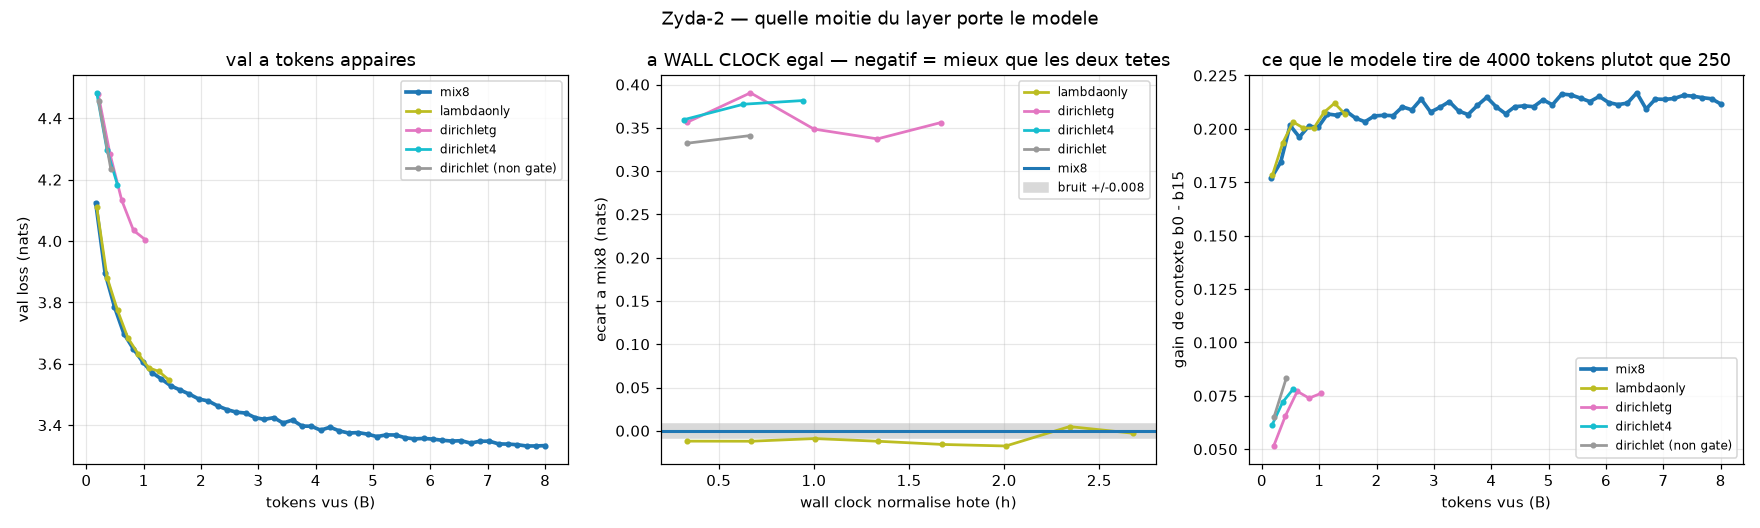
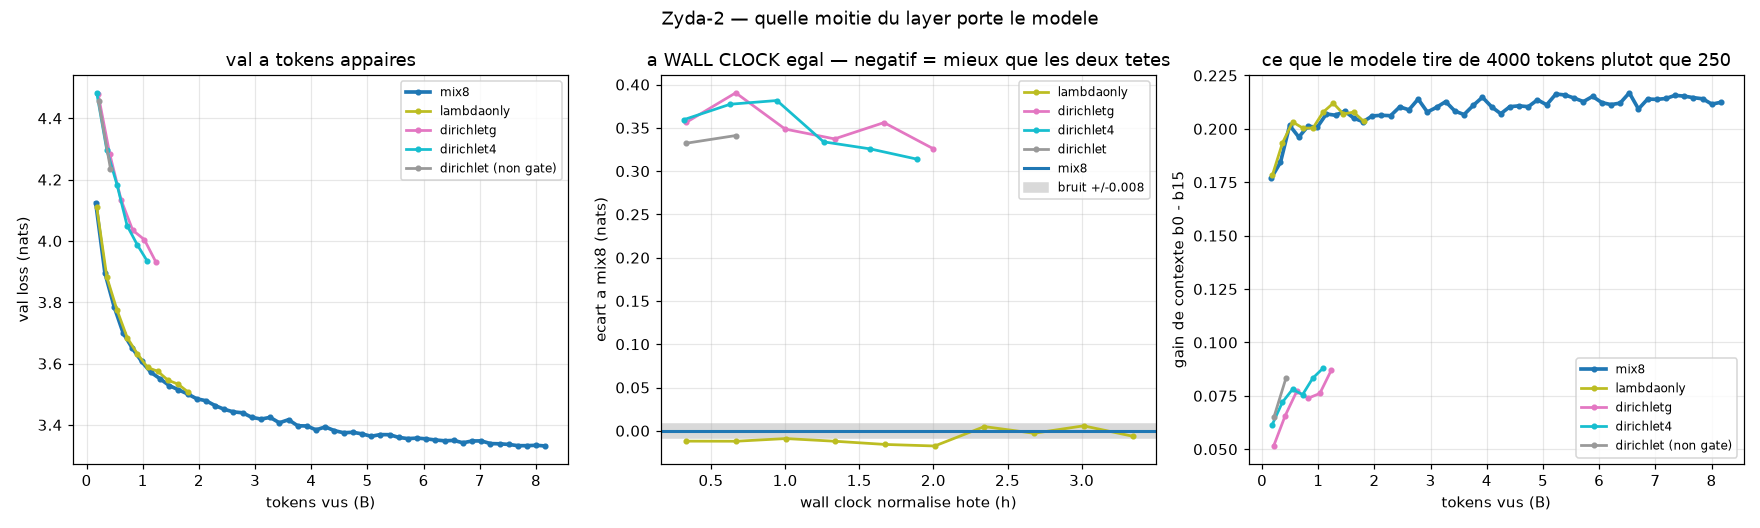
record which host each arm ran on: slot numbers do not survive a teardown
Destroying slots 0 and 3 RENUMBERED the survivors -- the old slot 1 is
now slot 0 -- and two of the four hosts no longer exist to be queried at
all. Both host_factors() implementations read calib_tok_s out of the
live pool by slot number, so every figure drawn after the teardown would
have normalised the historical arms against the wrong cards, and the
reference host (139362, the original slot 0) is one of the destroyed
ones, which would have shifted every factor by 0.5% on top.

Nothing would have failed. The curves would simply have been wrong.

vast.common now holds ARM_HOST (arm -> instance id) and HOST_RATE
(instance id -> calibrated tok/s) with REF_RATE frozen at 139362, and
both campaign_plots and vast.curves read it. Checked against the numbers
already reported: dv256 x1.0000, gdn x1.0043, mix8 x0.9948, mixanch
x0.9444, and the dv256-gdn median gap comes back at +0.0982, the same
figure as before the teardown. vast.curves no longer needs --map.

Slots 0 and 3 destroyed after loading every checkpoint that lived on
them -- dv256, mix8wide, dirichletg, dirichlet4, mixanch -- rather than
sizing the files. Two instances left at $1.235/h, no volumes, 21.0h of
runway against the 16.4h lambdaonly still needs.

diff --git a/campaign_plots.py b/campaign_plots.py
@@ -7,10 +7,10 @@ are a smudge in the first inch. The three figures here are the ones that scale
 does not show: the early hours against their own control, the router occupancy
 that motivated mix8, and the frequency grid mixanch is measuring for us.
 
-Host factors come from vast/runtime/instances.json (calib_tok_s per slot) via
-the same normalisation vast.curves applies: an arm on a 5.6% slower card gets
-5.6% fewer tokens per hour, which at the fitted slope is worth more than most
-of the effects being measured.
+Host factors come from vast.common's recorded table, not from the live pool:
+an arm on a 5.6% slower card gets 5.6% fewer tokens per hour, which at the
+fitted slope is worth more than most of the effects measured here, and the
+hosts two of these arms ran on no longer exist to be asked.
 """
 from __future__ import annotations
 
@@ -23,6 +23,8 @@ import numpy as np
 import matplotlib
 matplotlib.use("Agg")
 import matplotlib.pyplot as plt
+
+from vast.common import arm_factors
 
 ROOT = Path(__file__).resolve().parent
 LOG = ROOT / "runs" / "zyda.jsonl"
@@ -42,10 +44,13 @@ R_OF = {"z_mix4": 4, "z_mix8": 8, "z_mix8wide": 8, "z_mix8m32": 8, "z_mixanch": 
 
 
 def host_factors() -> dict[str, float]:
-    pool = {p["slot"]: p for p in json.loads((ROOT / "vast/runtime/instances.json").read_text())}
-    rates = {s: p.get("calib_tok_s") for s, p in pool.items()}
-    ref = rates.get(0) or next(v for v in rates.values() if v)
-    return {a: (rates.get(s) or ref) / ref for a, s in SLOT.items()}
+    """arm -> multiply its elapsed seconds by this to get reference-host seconds.
+
+    The table lives in vast.common because vast.curves needs the same one:
+    slot numbers shift on teardown and destroyed hosts cannot be queried.
+    """
+    return arm_factors(SLOT)
+
 
 
 def load() -> dict[str, list[dict]]:

diff --git a/vast/common.py b/vast/common.py
@@ -57,6 +57,34 @@ def vast(*args: str) -> object:
     return json.loads(result.stdout) if result.stdout.strip() else {}
 
 
+# Calibrated tok/s of the HOST each arm ran on, recorded rather than looked up.
+# Slot numbers are NOT stable: tearing down two instances renumbered the
+# survivors -- the old slot 1 became slot 0 -- and two of the four hosts no
+# longer exist to be queried at all. Keying on the instance id and freezing the
+# reference is what keeps a figure drawn today comparable with one drawn before
+# the teardown.
+REF_RATE = 139362.0              # instance 52437648, the original slot 0
+HOST_RATE = {
+    52437648: 139362.0,          # dv256, mix8wide, dirichlet, dirichletg  (destroyed)
+    52437820: 138643.0,          # mix4, mixsal, mix8, dv384, dsoft
+    52441798: 139957.0,          # gdn, mix8m32, lambdaonly
+    52717411: 131610.0,          # mixanch, dirichlet4                     (destroyed)
+}
+ARM_HOST = {
+    "z_dv256": 52437648, "z_mix8wide": 52437648,
+    "z_dirichlet": 52437648, "z_dirichletg": 52437648,
+    "z_mix4": 52437820, "z_mixsal": 52437820, "z_mix8": 52437820,
+    "z_dv384": 52437820, "z_dsoft": 52437820,
+    "z_gdn": 52441798, "z_mix8m32": 52441798, "z_lambdaonly": 52441798,
+    "z_mixanch": 52717411, "z_dirichlet4": 52717411,
+}
+
+
+def arm_factors(arms) -> dict[str, float]:
+    """arm -> multiply its elapsed seconds by this to get reference-host seconds."""
+    return {a: HOST_RATE[ARM_HOST[a]] / REF_RATE if a in ARM_HOST else 1.0 for a in arms}
+
+
 def account() -> dict:
     """Credit and balance are separate fields; a funded account can show 0 balance."""
     return vast("show", "user")

diff --git a/vast/curves.py b/vast/curves.py
@@ -56,13 +56,21 @@ def at(series, x):
 
 def host_factors(arm_host: dict[str, int]) -> dict[str, float]:
     """arm -> multiply its elapsed seconds by this to get reference-host seconds."""
+    # The recorded table first: slot numbers shift when instances are torn down
+    # and a destroyed host cannot be queried at all, so reading the live pool
+    # silently renormalises every historical arm.
+    from .common import ARM_HOST, HOST_RATE, REF_RATE
+    out = {}
     pool = {p["slot"]: p for p in instances()}
     rates = {s: p.get("calib_tok_s") for s, p in pool.items()}
     known = [r for r in rates.values() if r]
-    if not known:
-        return {a: 1.0 for a in arm_host}
-    ref = known[0]
-    return {a: (rates.get(s) or ref) / ref for a, s in arm_host.items()}
+    ref = known[0] if known else REF_RATE
+    for a, s in arm_host.items():
+        if a in ARM_HOST:
+            out[a] = HOST_RATE[ARM_HOST[a]] / REF_RATE
+        else:
+            out[a] = (rates.get(s) or ref) / ref
+    return out
 
 
 def main() -> None:
